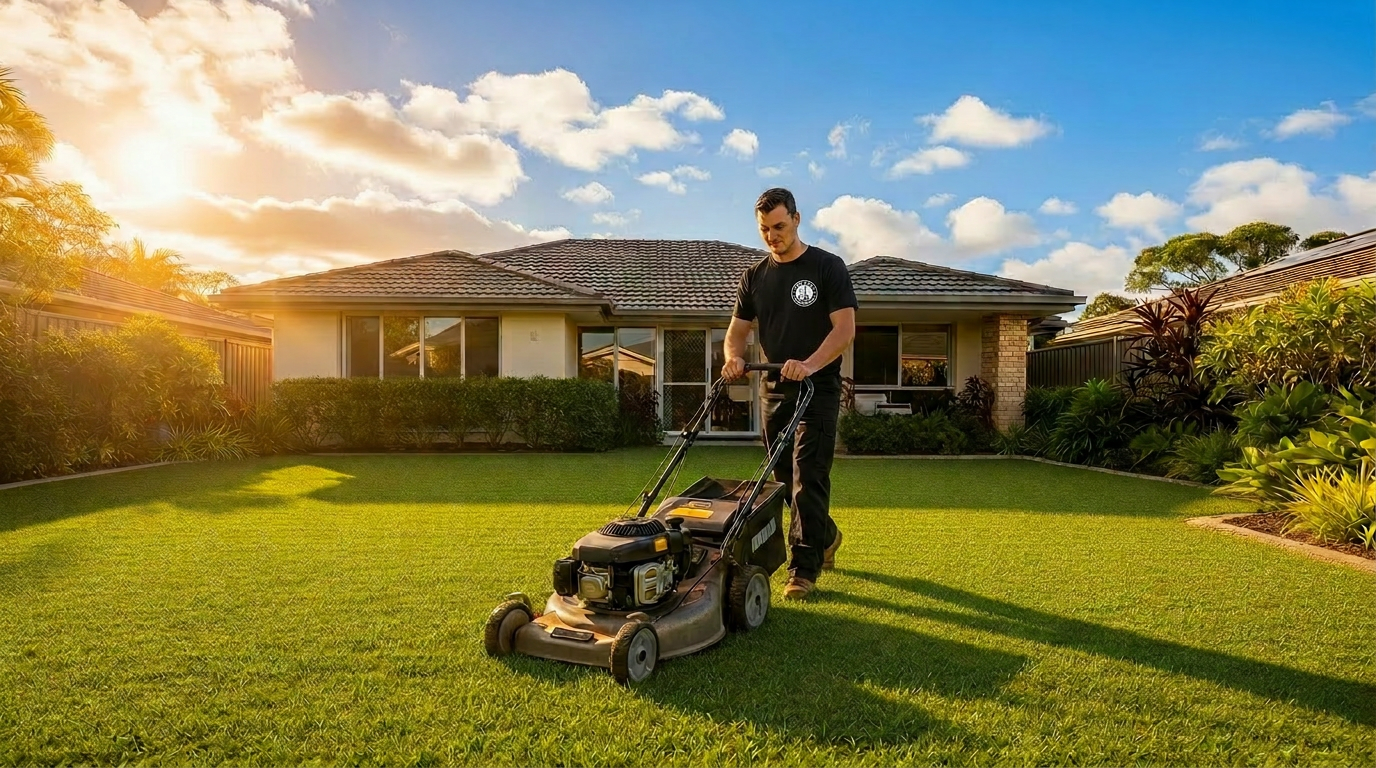
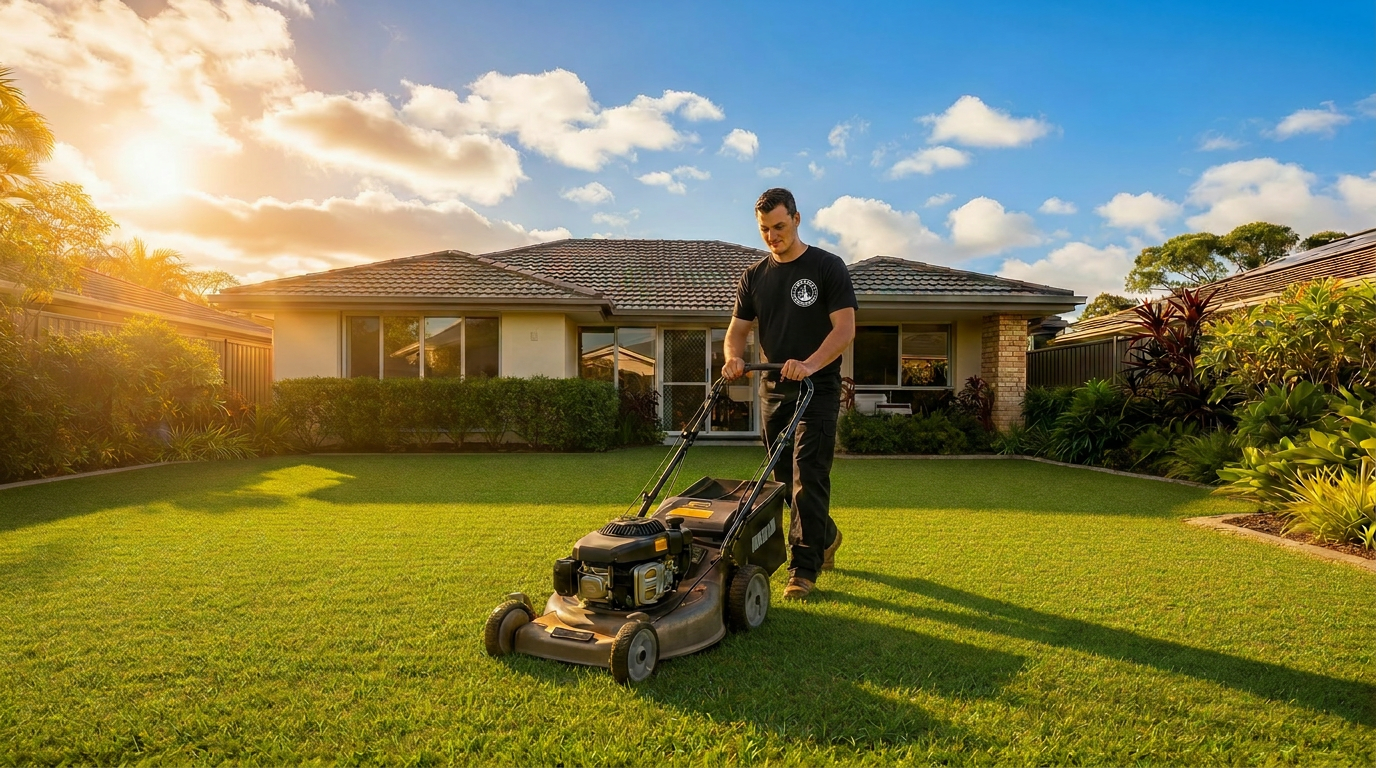
Changes

diff --git a/src/components/HeroSection.tsx b/src/components/HeroSection.tsx
@@ -14,7 +14,7 @@ const HeroSection = () => {
       <img
         src="/hero-lawn.jpg?v=4"
         alt="Too Easy Maintenance providing outdoor property maintenance on the Sunshine Coast"
-        className="absolute inset-0 w-full h-full object-cover"
+        className="absolute inset-0 w-full h-full object-cover object-[center_60%]"
         loading="eager"
         fetchPriority="high"
         width={1410}
